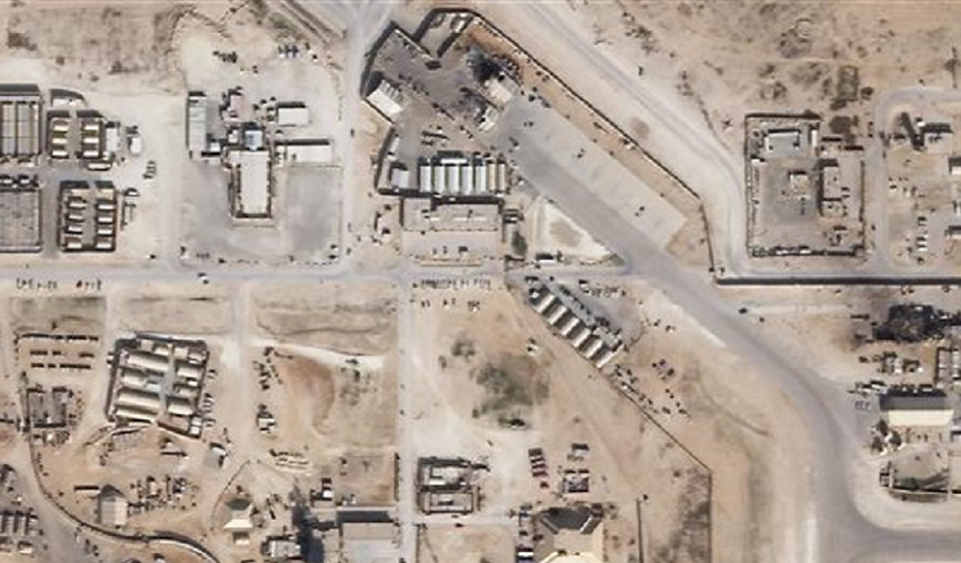
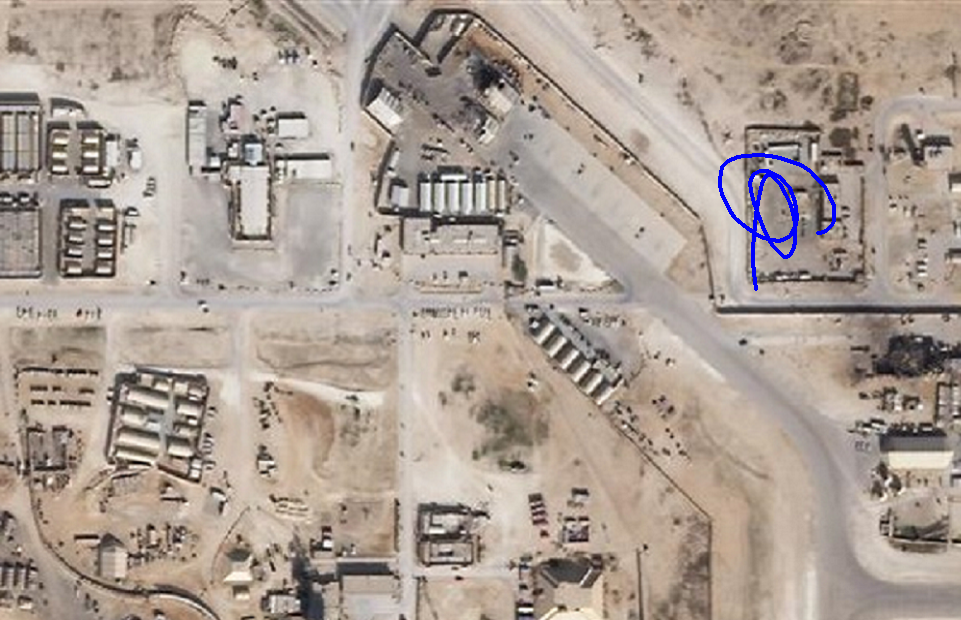
added subscriber to ros to read back distribution generated by interpeter, click rosConfig to view; also added slider to adjust drawing weight

Changed region(s): [[0.7492, 0.2416, 0.8741, 0.4529]]

diff --git a/ergodic_interface_v12.py b/ergodic_interface_v12.py
@@ -11,20 +11,22 @@ from kivy.app import App
 from kivy.uix.boxlayout import BoxLayout
 from kivy.uix.widget import Widget
 from kivy.uix.button import Button
-from kivy.graphics import Color , Rectangle , Line
 from kivy.uix.label import Label
-from kivy.config import Config
-from kivy.uix.textinput import TextInput
-from kivy.properties import OptionProperty, ListProperty, StringProperty, BooleanProperty
 from kivy.uix.image import Image as kvImage 
 from kivy.uix.togglebutton import ToggleButton
 from kivy.uix.popup import Popup
+from kivy.uix.slider import Slider
+from kivy.graphics import Color, Rectangle, Line 
+from kivy.config import Config
+from kivy.uix.textinput import TextInput
+from kivy.properties import OptionProperty, ListProperty, StringProperty, BooleanProperty
 from kivy.clock import Clock
 from kivy.core.window import Window
 
 # other python imports
-# import numpy as np # not currently used anywhere uncommented
-# import cv2 # not currently used anywhere uncommented 
+import numpy as np # not currently used anywhere uncommented
+import cv2 # not currently used anywhere uncommented
+# import matplotlib.pyplot as plt # for debugging
 import os
 import roslibpy # to interface with ros
 
@@ -43,11 +45,38 @@ class ros_interface(object):
     def __init__(self): 
         self.client = roslibpy.Ros(host='192.168.137.2',port=9090) # manually change this if you have a different setup
         self.publisher = roslibpy.Topic(self.client,'/tablet_comm','ergodic_humanswarmcollab_sim/tablet') 
+        self.subscriber = roslibpy.Topic(self.client,'/input','std_msgs/Float32MultiArray') 
+        self.subscriber.subscribe(self.get_map)
         self.client.run()
 
     def publish(self,msg):
         if self.client.is_connected: 
             self.publisher.publish(msg)
+    
+    def get_map(self,msg): 
+        target_dist = msg['data']
+        layout = msg['layout']
+        width = layout['dim'][0]['size']
+        height = layout['dim'][1]['size']
+        target_dist = np.reshape(target_dist,(width,height))
+        self.save_map(target_dist)
+    
+    def save_map(self,target_dist):
+        # load background image
+        background = cv2.imread('raw.png')
+        # convert target_dist to cv2 image
+        target_dist = np.flipud(target_dist) # fix orientation
+        target_dist /= (np.max(target_dist)) 
+        target_dist *= 255
+        target_dist = np.array(target_dist,dtype=np.uint8) 
+        # scale to size of background image
+        h,w, _ = background.shape 
+        resize = cv2.resize(target_dist,(w,h))
+        # convert target_dist to heatmap
+        heatmap = cv2.applyColorMap(resize,9) # heatmaps are 0-12
+        # overlap and save
+        out = cv2.addWeighted(background,0.5,heatmap,0.5,0)
+        cv2.imwrite('dist.png',out)
     
     def __del__(self): 
         self.client.terminate()
@@ -89,6 +118,8 @@ class MainLayout ( BoxLayout ) :
     DRAW_GROUND = BooleanProperty ( defaultvalue = False ) 
     DRAW_RESTRICTED = BooleanProperty ( defaultvalue = False ) 
     
+    draw_weight = 2
+
     
     def build ( self ):
         Clock.schedule_once ( lambda *args: self.print_pos() )
@@ -116,7 +147,7 @@ class MainLayout ( BoxLayout ) :
         self.btnSaveMap = Button ( text = "Save Map" , font_size = 20 )
         self.topLayout.add_widget ( self.btnSaveMap ) 
         self.btnSaveMap.bind ( on_press = self.callbackSave ) 
-        self.btnROSConfig = Button ( text = "ROS Configuration" , font_size = 20 , color = [0.5,0.,0.] )
+        self.btnROSConfig = Button ( text = "ROS Configuration" , font_size = 20 )
         self.topLayout.add_widget ( self.btnROSConfig ) 
         
         # Container for middle UI widgets        
@@ -136,7 +167,7 @@ class MainLayout ( BoxLayout ) :
         self.aerialButtonContainer = BoxLayout ( orientation = 'vertical' , padding = 10 )  
         self.middleSideLayout.add_widget ( self.aerialButtonContainer  ) 
         self.aerialtoggle = ToggleButton ( text = "DRAW AERIAL AOI" , font_size = 20  , halign = 'center' , group = 'mode_selection' ) 
-        self.aerialButtonContainer .add_widget ( self.aerialtoggle ) 
+        self.aerialButtonContainer.add_widget ( self.aerialtoggle ) 
         self.aerialtoggle.bind ( on_press = self.toggleDrawState ) 
         
         self.aerialRow2 = BoxLayout ( orientation = 'horizontal' , size_hint_y = 0.75 ) 
@@ -146,8 +177,16 @@ class MainLayout ( BoxLayout ) :
         self.aerialDeploy = Button ( text = "DEPLOY / EXPORT" ) 
         self.aerialDeploy.bind ( on_press = self.callbackPublish ) 
         self.aerialRow2.add_widget ( self.aerialDeploy ) 
-        self.aerialButtonContainer .add_widget ( self.aerialRow2 ) 
+        self.aerialButtonContainer.add_widget ( self.aerialRow2 ) 
         
+        self.aerialRow3 = BoxLayout ( orientation = 'vertical' ,  padding = 5 , size_hint_y = 0.5 ) 
+        self.aerialWeight = Slider ( min=1, max=10, value=self.draw_weight ) 
+        self.aerialWeight.bind ( on_touch_move = self.callbackSlider ) 
+        self.aerialRow3.add_widget(self.aerialWeight)
+        self.aerialWeightDisp = Label(text = str(self.aerialWeight.value))
+        self.aerialRow3.add_widget(self.aerialWeightDisp)
+        self.middleSideLayout.add_widget ( self.aerialRow3 ) 
+
         self.groundButtonContainer = BoxLayout ( orientation = 'vertical' , padding = 10 ) 
         self.middleSideLayout.add_widget ( self.groundButtonContainer  ) 
         self.groundtoggle = ToggleButton ( text = "DRAW GROUND AOI" , font_size = 20  , halign = 'center' , group = 'mode_selection' ) 
@@ -155,24 +194,24 @@ class MainLayout ( BoxLayout ) :
         self.groundtoggle.bind ( on_press = self.toggleDrawState ) 
         
         self.groundRow2 = BoxLayout ( orientation = 'horizontal' , size_hint_y = 0.75 ) 
-        self.groundRow2 .add_widget ( Button ( text = "CLEAR"  , color = [0.5,0.,0.]) ) 
-        self.groundRow2 .add_widget ( Button ( text = "DEPLOY / EXPORT" , color = [0.5,0.,0.] ) ) 
-        self.groundButtonContainer .add_widget ( self.groundRow2  ) 
+        self.groundRow2.add_widget ( Button ( text = "CLEAR"  , color = [0.5,0.,0.]) ) 
+        self.groundRow2.add_widget ( Button ( text = "DEPLOY / EXPORT" , color = [0.5,0.,0.] ) ) 
+        self.groundButtonContainer.add_widget ( self.groundRow2  ) 
         
         self.restrictedButtonContainer = BoxLayout ( orientation = 'vertical' , padding = 10 ) 
         self.middleSideLayout.add_widget ( self.restrictedButtonContainer  ) 
         self.restrictedtoggle = ToggleButton ( text = "DRAW RESTRICTED AREA" , font_size = 20  , halign = 'center' , group = 'mode_selection' ) 
-        self.restrictedButtonContainer .add_widget ( self.restrictedtoggle ) 
+        self.restrictedButtonContainer.add_widget ( self.restrictedtoggle ) 
         self.restrictedtoggle.bind ( on_press = self.toggleDrawState )
         
         self.restrictedRow2 = BoxLayout ( orientation = 'horizontal' , size_hint_y = 0.75 ) 
-        self.restrictedRow2  .add_widget ( Button ( text = "CLEAR" , color = [0.5,0.,0.]) )
-        self.restrictedRow2  .add_widget ( Button ( text = "DEPLOY / EXPORT" , color = [0.5,0.,0.]) ) 
+        self.restrictedRow2.add_widget ( Button ( text = "CLEAR" , color = [0.5,0.,0.]) )
+        self.restrictedRow2.add_widget ( Button ( text = "DEPLOY / EXPORT" , color = [0.5,0.,0.]) ) 
         self.restrictedButtonContainer.add_widget ( self.restrictedRow2   ) 
        
         self.DeployAllButtonContainer = BoxLayout ( orientation = 'vertical' , padding = 10 ) 
         
-        self.DeployAllButtonContainer .add_widget ( Button ( text = "DEPLOY ALL UNITS" , font_size = 20 , halign = 'center' , color = [0.5,0.,0.] ) ) 
+        self.DeployAllButtonContainer.add_widget ( Button ( text = "DEPLOY ALL UNITS" , font_size = 20 , halign = 'center' , color = [0.5,0.,0.] ) ) 
         self.middleSideLayout.add_widget ( Label ( text = "" ) ) 
         self.middleSideLayout.add_widget ( self.DeployAllButtonContainer) 
        
@@ -194,7 +233,7 @@ class MainLayout ( BoxLayout ) :
         
         # Build ROS configuration popup
         self.rosConfigPopup = Popup ( title = 'ROS Configuration' , content = Label ( text = 'Placeholder for ROS' ) )
-        self.rosConfigPopup.size_hint = ( 0.5 , 0.5 ) 
+        self.rosConfigPopup.size_hint = ( 0.8 , 0.8 ) 
         #self.rosConfigPopup.bind ( on_dismiss = self.callbackRosConfig )
         #self.rosConfigPopup.open() 
         self.btnROSConfig.bind ( on_press = self.callbackRosConfig ) 
@@ -260,8 +299,10 @@ class MainLayout ( BoxLayout ) :
         self.infoPanel.text = "Click!" 
         
     def callbackRosConfig ( self, event ) :
+        self.rosConfigPopup.content = kvImage ( source = 'dist.png')
+        self.rosConfigPopup.content.reload()
         self.rosConfigPopup.open() 
-        print('Popup', self , 'is being dismissed but is prevented!')
+        # print('Popup', self , 'is being dismissed but is prevented!')
         return True
     
     # Callback functions for aerial buttons
@@ -270,6 +311,11 @@ class MainLayout ( BoxLayout ) :
 
     def callbackClear( self , event ) : 
         self.mainScreen.attemptClear()
+    
+    def callbackSlider( self , event, location ) :
+        MainLayout.draw_weight = int(self.aerialWeight.value)
+        self.aerialWeightDisp.text = str(MainLayout.draw_weight)
+        print('slider adjusted')
 
 # def changeStatusText ( self ) :
 #     self.infopanel.text = self.textInput 
@@ -314,6 +360,7 @@ class DrawingWidget ( Widget ) :
     def attemptPublish ( self ) :
         msg = dict(
             name = 'aerial data',
+            weight = MainLayout.draw_weight*2,
             map_width = MainLayout.mapProperties["map_width"],
             map_height = MainLayout.mapProperties["map_height"],
             x_output = MainLayout.outputX,
@@ -363,7 +410,7 @@ class DrawingWidget ( Widget ) :
                     MainLayout.infoText = str ( 'Ground: x = ' ) + str ( int ( touch.pos [ 0 ] )  ) + str ( ', y = ' ) + str ( int ( touch.pos [ 1 ] ) ) 
                 elif CURRENT_DRAW == 'aerial':
                     Color ( 0.0 , 0.0 , 1.0 )
-                    self.line = Line ( points = [ touch.pos [0] , touch.pos [ 1 ] ] , width = 2 )
+                    self.line = Line ( points = [ touch.pos [0] , touch.pos [ 1 ] ] , width = MainLayout.draw_weight )
                     self.objects.append(self.line)
                     MainLayout.infoText = str ( 'Aerial: x = ' ) + str ( int ( touch.pos [ 0 ] )  ) + str ( ', y = ' ) + str ( int ( touch.pos [ 1 ] ) ) 
                 if CURRENT_DRAW == 'restricted':

diff --git a/README.md b/README.md
@@ -18,6 +18,8 @@ Use:
 - Click/touch "Save Map" (along the top) to save png to current directory
 - Click/touch "Deploy / Export" under "Draw Aerial AOI" to send messages via ROS
 - Click/touch "Clear" under "Draw Aerial AOI" to clear map (note this currently clears all types)
+- Click/touch "ROS Configuration" to view target distribution being explored by agents
+- Adjust slider to change drawing line width 
 - Press "Esc" on your keyboard to exit the program
 
 Outputs:
